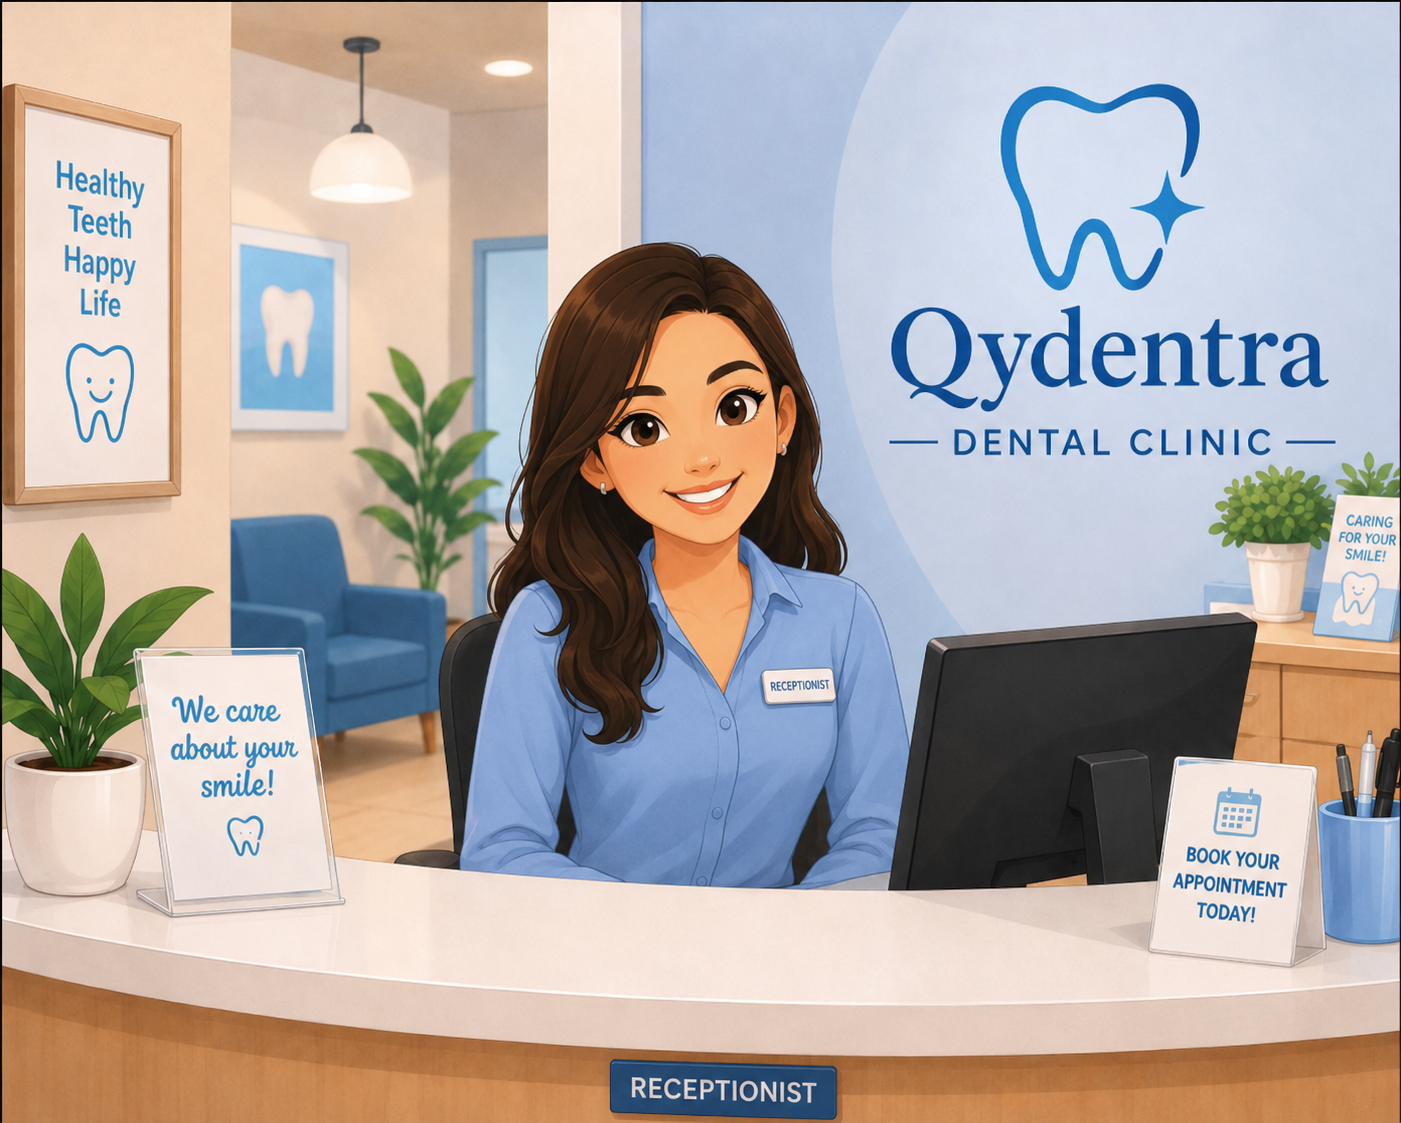
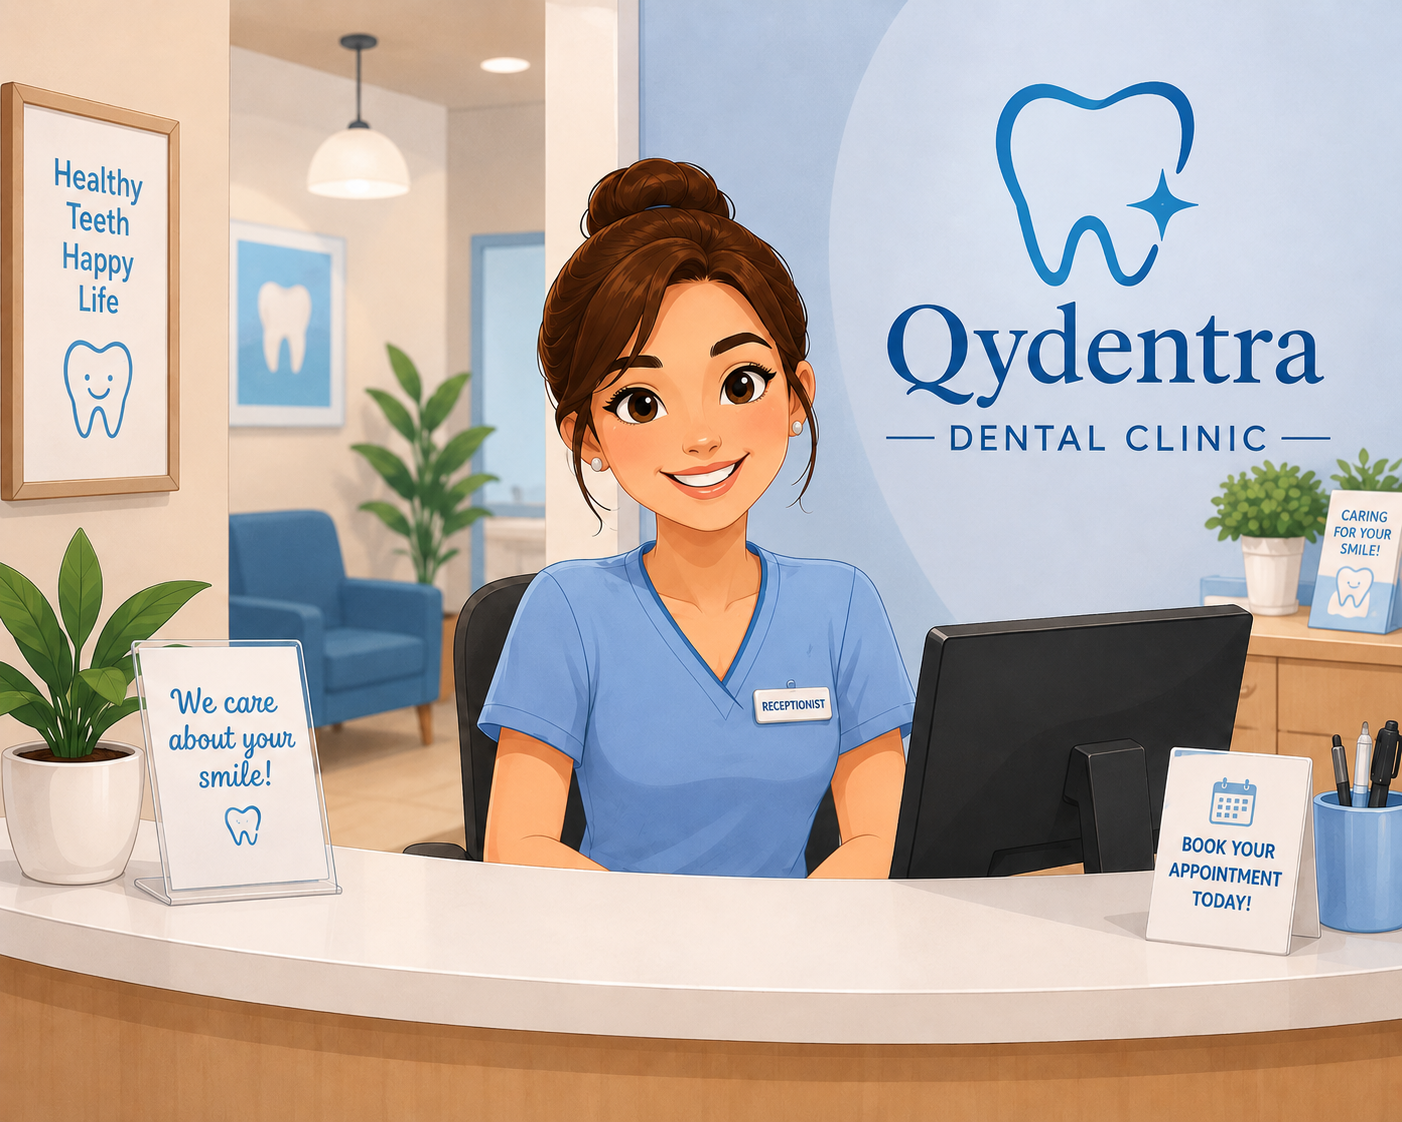
bg

diff --git a/assets/css/auth copy.css b/assets/css/auth copy.css
@@ -1,0 +1,181 @@
+@import url('https://fonts.googleapis.com/css2?family=Poppins:wght@300;400;500;600;700&display=swap');
+
+* {
+    margin: 0;
+    padding: 0;
+    box-sizing: border-box;
+    font-family: 'Poppins', sans-serif;
+}
+
+body {
+    height: 100vh;
+    overflow: hidden;
+    background: linear-gradient(rgba(0, 0, 0, .45), rgba(0, 0, 0, .45)), url('/Qydentra/assets/img/clinic_background.png');
+    background-size: cover;
+    background-position: right center;
+    /* keep clinic visible on the right */
+    background-repeat: no-repeat;
+    position: relative;
+}
+
+/* LEFT-ALIGNED AUTH CONTAINER */
+.auth-container {
+    width: 100%;
+    height: 100vh;
+    display: flex;
+    align-items: center;
+    justify-content: flex-start;
+    padding-left: 12%;
+    /* move card to the left */
+    padding-right: 5%;
+    z-index: 10;
+}
+
+/* GLASSMORPHISM CARD */
+.auth-card {
+    width: 430px;
+    padding: 45px;
+    border-radius: 32px;
+    background: rgba(40, 40, 40, 0.45);
+    backdrop-filter: blur(18px);
+    -webkit-backdrop-filter: blur(18px);
+    border: 1px solid rgba(255, 255, 255, 0.1);
+    box-shadow: 0 20px 50px rgba(0, 0, 0, .35), 0 0 40px rgba(108, 92, 231, .12);
+    animation: fadeIn 1s ease;
+}
+
+.logo {
+    font-size: 48px;
+    font-weight: 700;
+    text-align: center;
+    background: linear-gradient(135deg, #ffffff, #b388ff);
+    -webkit-background-clip: text;
+    -webkit-text-fill-color: transparent;
+    margin-bottom: 10px;
+}
+
+.tagline {
+    text-align: center;
+    color: #ddd;
+    font-size: 14px;
+    margin-bottom: 35px;
+    line-height: 1.6;
+}
+
+form {
+    display: flex;
+    flex-direction: column;
+    gap: 18px;
+}
+
+.input-group {
+    position: relative;
+}
+
+input {
+    width: 100%;
+    padding: 17px 18px;
+    border-radius: 16px;
+    border: 1px solid rgba(255, 255, 255, 0.12);
+    background: rgba(255, 255, 255, 0.08);
+    outline: none;
+    font-size: 15px;
+    color: white;
+    transition: 0.3s;
+}
+
+input::placeholder {
+    color: #bbb;
+}
+
+input:focus {
+    border: 1px solid #8b5cf6;
+    box-shadow: 0 0 15px rgba(139, 92, 246, 0.4);
+}
+
+button {
+    padding: 17px;
+    border: none;
+    border-radius: 16px;
+    background: linear-gradient(135deg, #6c5ce7, #8e44ad, #00d2ff);
+    color: white;
+    font-size: 16px;
+    font-weight: 600;
+    cursor: pointer;
+    transition: 0.3s;
+}
+
+button:hover {
+    transform: translateY(-3px);
+    box-shadow: 0 10px 20px rgba(108, 92, 231, 0.4);
+}
+
+.switch {
+    margin-top: 22px;
+    text-align: center;
+    font-size: 14px;
+    color: #ddd;
+}
+
+.switch a {
+    color: #b388ff;
+    text-decoration: none;
+    font-weight: 600;
+}
+
+.switch a:hover {
+    text-decoration: underline;
+}
+
+@keyframes fadeIn {
+    from {
+        opacity: 0;
+        transform: translateY(20px);
+    }
+
+    to {
+        opacity: 1;
+        transform: translateY(0);
+    }
+}
+
+/* ALERTS */
+.alert-error {
+    color: #fff;
+    background: rgba(239, 68, 68, 0.18);
+    border: 1px solid rgba(239, 68, 68, 0.4);
+    border-radius: 14px;
+    padding: 14px 18px;
+    margin-bottom: 18px;
+    font-size: 14px;
+    text-align: center;
+}
+
+.alert-success-msg {
+    color: #fff;
+    background: rgba(34, 197, 94, 0.18);
+    border: 1px solid rgba(34, 197, 94, 0.4);
+    border-radius: 14px;
+    padding: 14px 18px;
+    margin-bottom: 18px;
+    font-size: 14px;
+    text-align: center;
+}
+
+/* RESPONSIVE */
+@media (max-width: 992px) {
+    .auth-container {
+        justify-content: center;
+        padding-left: 20px;
+        padding-right: 20px;
+    }
+
+    .auth-card {
+        width: 100%;
+        max-width: 400px;
+    }
+
+    body {
+        background-position: center;
+    }
+}

diff --git a/assets/css/auth.css b/assets/css/auth.css
@@ -14,37 +14,11 @@ justify-content:center;
 align-items:center;
 overflow:hidden;
 background:
-linear-gradient(rgba(8,10,25,0.75),rgba(8,10,25,0.75)),
-url('https://images.unsplash.com/photo-1506744038136-46273834b3fb?q=80&w=1974&auto=format&fit=crop');
+linear-gradient(rgba(0, 0, 0, 0.5), rgba(0, 0, 0, 0.5)),
+url('/Qydentra/assets/img/clinic.png');
 background-size:cover;
 background-position:center;
 position:relative;
-}
-
-/* glowing background */
-
-body::before{
-content:'';
-position:absolute;
-width:500px;
-height:500px;
-background:#6c5ce7;
-filter:blur(180px);
-opacity:0.35;
-top:-100px;
-left:-100px;
-}
-
-body::after{
-content:'';
-position:absolute;
-width:400px;
-height:400px;
-background:#00d2ff;
-filter:blur(180px);
-opacity:0.25;
-bottom:-100px;
-right:-100px;
 }
 
 .auth-container{

diff --git a/assets/css/dashboard.css b/assets/css/dashboard.css
@@ -9,8 +9,8 @@ font-family:'Poppins',sans-serif;
 
 body{
 background:
-linear-gradient(rgba(3,7,18,0.80),rgba(3,7,18,0.90)),
-url('https://images.unsplash.com/photo-1506744038136-46273834b3fb?q=80&w=1974&auto=format&fit=crop');
+linear-gradient(rgba(0, 0, 0, 0.5), rgba(0, 0, 0, 0.5)),
+url('/Qydentra/assets/img/clinic_backgroun.png');
 
 background-size:cover;
 background-position:center;